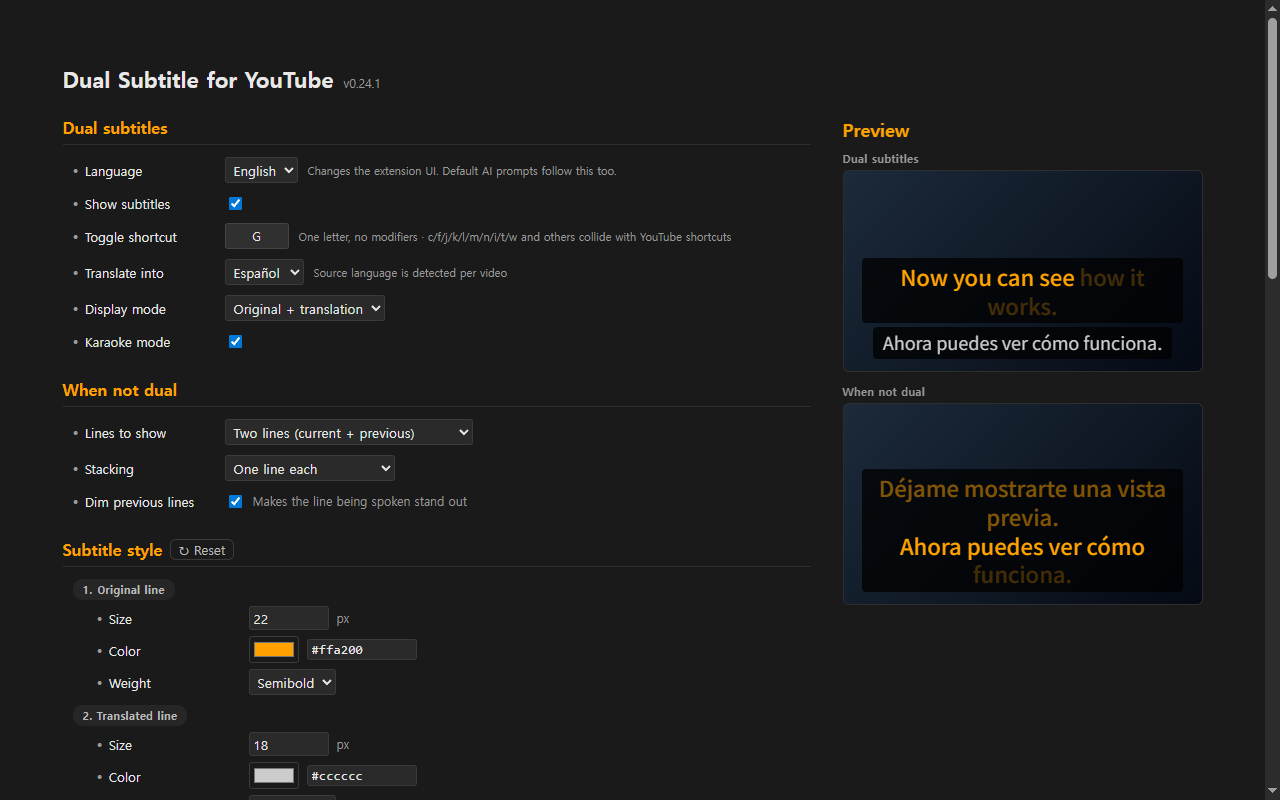
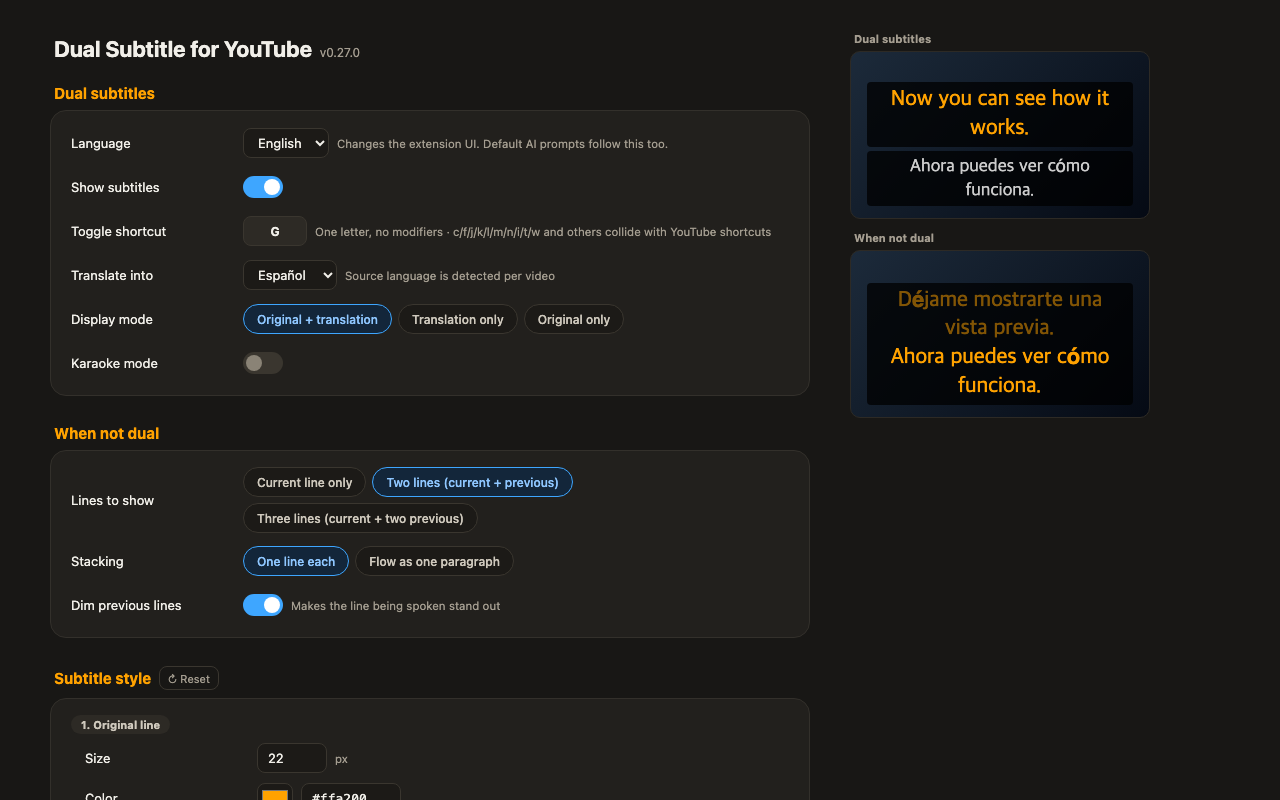
Docs: store screenshots for the A79 popup and options (ko + en)
Popup (new) and options screenshots re-captured with the new design,
1280x800, Korean and English (UI English, target Español) locales.
Karaoke mode off so the preview's original line is not caught mid-animation.

diff --git a/docs/STORE_LISTING.md b/docs/STORE_LISTING.md
@@ -139,8 +139,8 @@ Dual Subtitle for YouTube shows the original captions and a translation at the s
 
 필요 사양: 1280×800 또는 640×400 (PNG/JPG), 최소 1장 최대 5장. **로캘별로 따로 올릴 수 있다**(대시보드에서 로캘 선택 → Localized screenshots).
 
-- 한국어(ko) 로캘: `photo/store/` 4장(한국어 UI·한국어 번역) 그대로.
-- 영어(기본) 로캘: `photo/store/en/` — 옵션 화면은 자동 캡처 완료(`screenshot_5_options.png`, 표시 English·번역 Español). 영상·Shorts·해설 화면은 자동화 Chromium에서 유튜브 재생이 막혀("Something went wrong") 실제 Chrome에서 수동 캡처 필요 — 권장: 외국어(스페인어 등) 영상 + 번역 English, 표시 언어 English.
+- 한국어(ko) 로캘: `photo/store/` 5장(한국어 UI·한국어 번역). 팝업(`screenshot_4_popup.png`)·옵션(`screenshot_5_options.png`)은 A79 디자인으로 다시 찍음(헤드리스 Chrome + chrome API 스텁, 노래방 모드 끈 상태로 — 켜면 미리보기 원문이 애니메이션 중간에 흐리게 찍힘). 팝업은 실제 크기가 작아 1280×800 어두운 바탕 가운데에 1.6배로 놓음.
+- 영어(기본) 로캘: `photo/store/en/` — 팝업·옵션은 자동 캡처 완료(`screenshot_4_popup.png`·`screenshot_5_options.png`, 표시 English·번역 Español). 영상·Shorts·해설 화면은 자동화 Chromium에서 유튜브 재생이 막혀("Something went wrong") 실제 Chrome에서 수동 캡처 필요 — 권장: 외국어(스페인어 등) 영상 + 번역 English, 표시 언어 English.
 
 권장 구성:
 1. 일반 영상에 듀얼 자막 표시 (원문/번역 시각적 강조)
